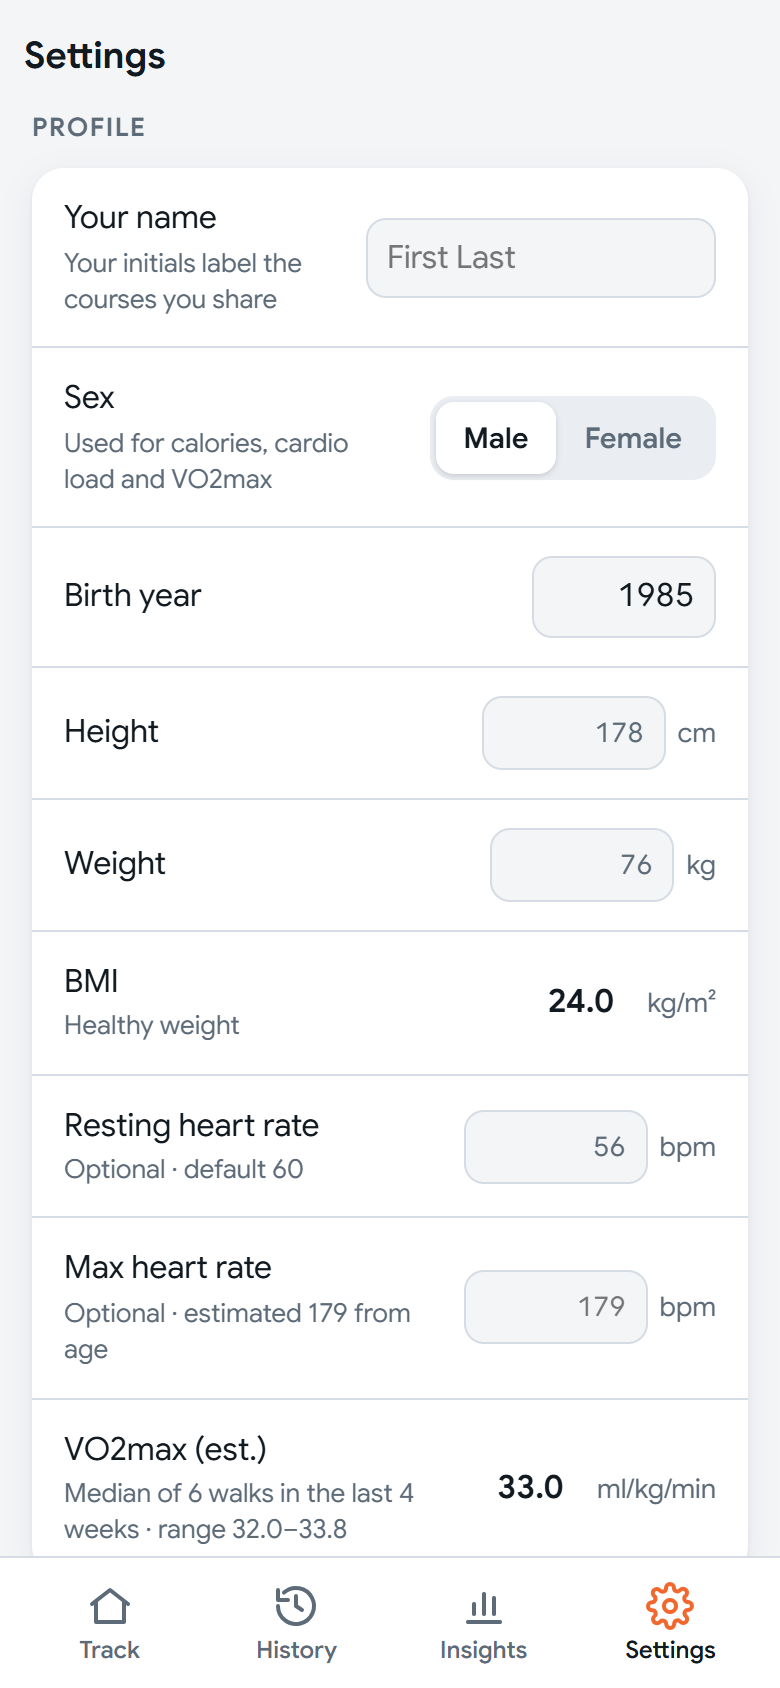
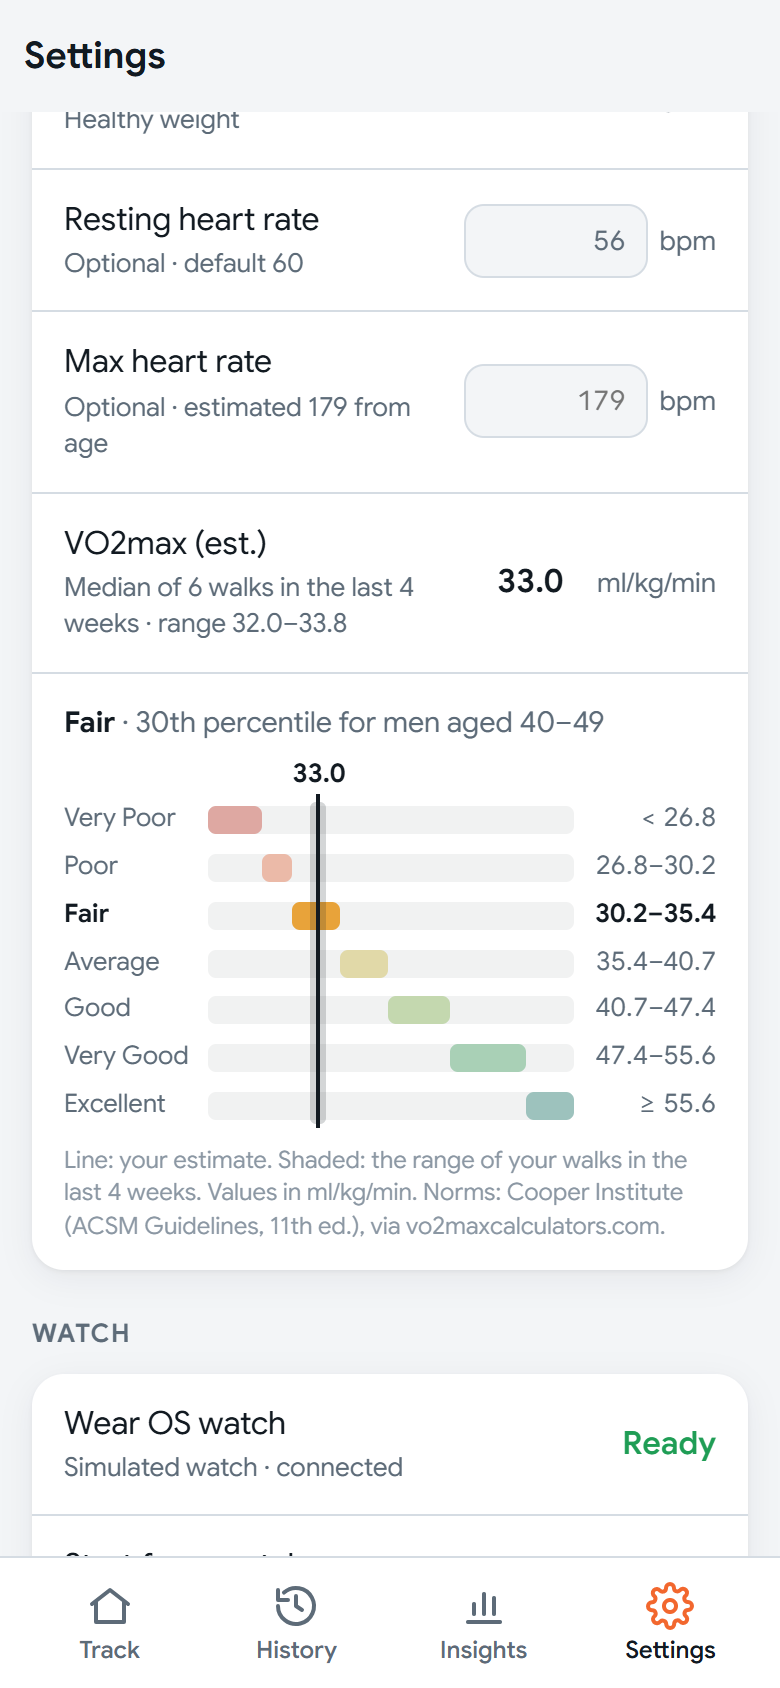
README: profile screenshot with the VO2max norms chart

diff --git a/README.md b/README.md
@@ -66,7 +66,7 @@ sensors.
   <img src="docs/screenshots/insights-goals.png" width="250" alt="Insights: weekly running distance with a dashed 25 km goal line, and a tooltip for a week 7.4 km short of the goal">
 </p>
 <p align="center">
-  <img src="docs/screenshots/profile.png" width="250" alt="Settings, Profile: sex, birth year, height, weight, BMI, resting and max heart rate, and the estimated VO2max: the median of 6 walks in the last 4 weeks">
+  <img src="docs/screenshots/profile.png" width="250" alt="Settings, Profile: resting and max heart rate, the estimated VO2max (the median of 6 walks in the last 4 weeks) and a chart rating it from Very Poor to Excellent for men aged 40–49, with the estimate marked in Fair at the 30th percentile">
 </p>
 <p align="center">
   <img src="docs/screenshots/widget-week-chart.png" width="490" alt="4×2 widget: this week's distance, average split and speed, a chart of distance per day with a dashed daily goal line, and You're 3 km ahead of your goal! Well done!!">
